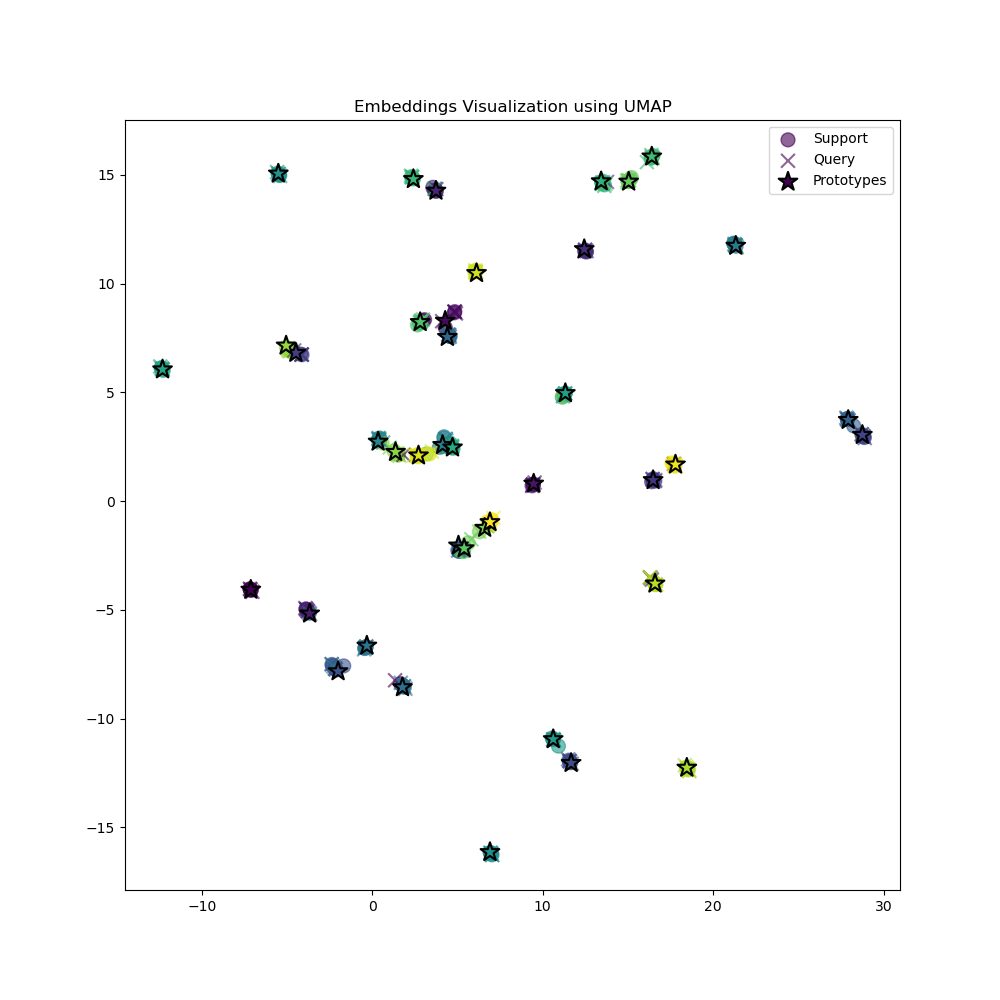
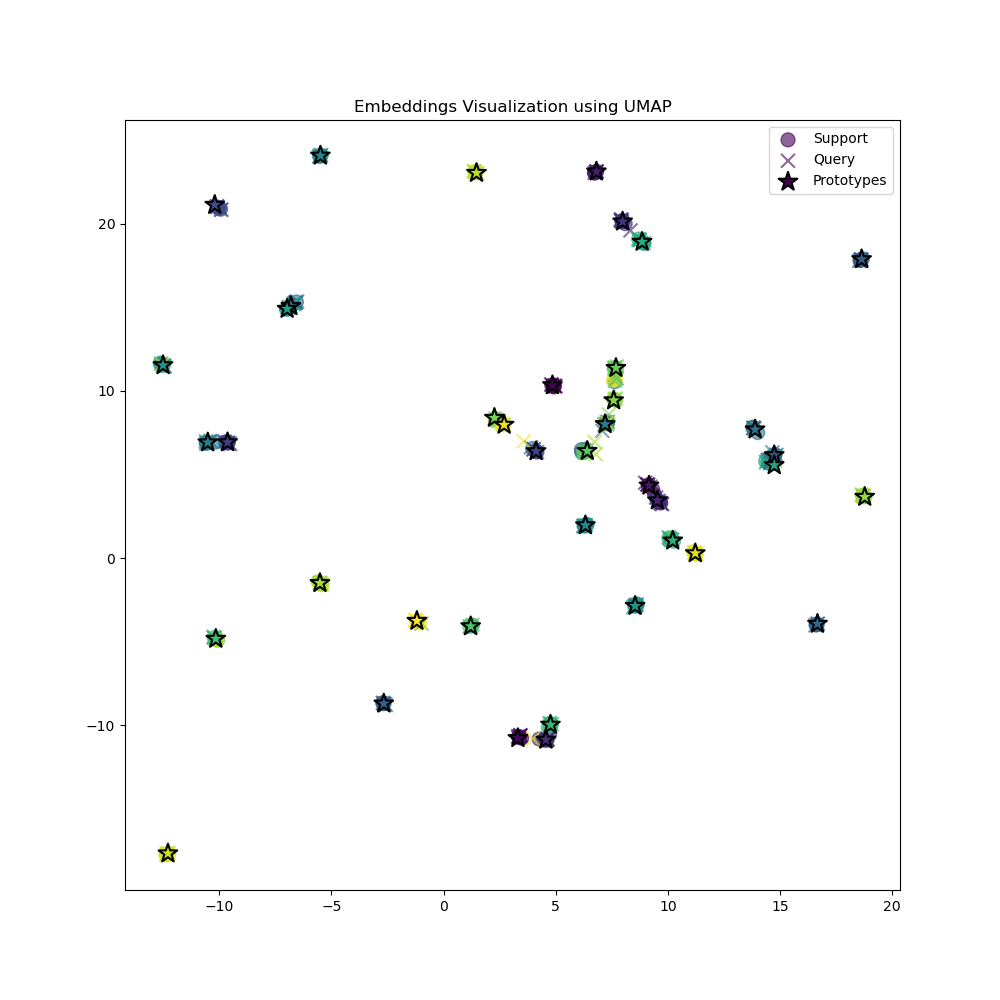
<feat> test results for transformer encoder 1 layer

diff --git a/scripts/visualize/visualize_mixup.py b/scripts/visualize/visualize_mixup.py
@@ -1,0 +1,108 @@
+import torch
+import torchvision
+import matplotlib.pyplot as plt
+import sys
+from pathlib import Path
+import numpy as np
+
+# Add project root to path to import from src
+project_root = Path(__file__).parent.parent.parent
+sys.path.append(str(project_root))
+
+from src.models.prototypical_network import mixup_data, cutmix_data
+
+
+def denormalize(tensor):
+    """Convert normalized image tensor back to displayable range"""
+    mean = torch.tensor([0.485, 0.456, 0.406]).view(3, 1, 1)
+    std = torch.tensor([0.229, 0.224, 0.225]).view(3, 1, 1)
+    return tensor * std + mean
+
+
+def visualize_augmentations(images, labels, alpha=0.5):
+    """Visualize original images and their MixUp/CutMix versions"""
+    # Ensure we're working with tensors
+    images = images.clone()
+    labels = labels.clone()
+
+    # Apply augmentations
+    mixed_images, labels_a, labels_b, mixup_lambda = mixup_data(
+        images, labels, alpha=alpha
+    )
+    cutmix_images, cm_labels_a, cm_labels_b, cutmix_lambda = cutmix_data(
+        images, labels, alpha=alpha
+    )
+
+    # Create figure
+    fig, axes = plt.subplots(2, 3, figsize=(15, 10))
+
+    # Helper function to display image
+    def show_image(ax, img, title):
+        img = denormalize(img)
+        img = img.permute(1, 2, 0).cpu().numpy()
+        img = np.clip(img, 0, 1)
+        ax.imshow(img)
+        ax.axis("off")
+        ax.set_title(title)
+
+    # Show original images
+    show_image(axes[0, 0], images[0], f"Original 1\nLabel: {labels[0].item()}")
+    show_image(axes[1, 0], images[1], f"Original 2\nLabel: {labels[1].item()}")
+
+    # Show MixUp results
+    show_image(
+        axes[0, 1],
+        mixed_images[0],
+        f"MixUp\nλ={mixup_lambda:.2f}\nLabels: {labels_a[0].item()}, {labels_b[0].item()}",
+    )
+    show_image(
+        axes[1, 1],
+        mixed_images[1],
+        f"MixUp\nλ={mixup_lambda:.2f}\nLabels: {labels_a[1].item()}, {labels_b[1].item()}",
+    )
+
+    # Show CutMix results
+    show_image(
+        axes[0, 2],
+        cutmix_images[0],
+        f"CutMix\nλ={cutmix_lambda:.2f}\nLabels: {cm_labels_a[0].item()}, {cm_labels_b[0].item()}",
+    )
+    show_image(
+        axes[1, 2],
+        cutmix_images[1],
+        f"CutMix\nλ={cutmix_lambda:.2f}\nLabels: {cm_labels_a[1].item()}, {cm_labels_b[1].item()}",
+    )
+
+    plt.tight_layout()
+    return fig
+
+
+if __name__ == "__main__":
+    # Load some sample images from CIFAR-10
+    transform = torchvision.transforms.Compose(
+        [
+            torchvision.transforms.Resize((224, 224)),
+            torchvision.transforms.ToTensor(),
+            torchvision.transforms.Normalize(
+                mean=[0.485, 0.456, 0.406], std=[0.229, 0.224, 0.225]
+            ),
+        ]
+    )
+
+    dataset = torchvision.datasets.Flowers102(
+        root="./data", split="train", download=True, transform=transform
+    )
+    # Select a few images
+    batch_size = 4
+    indices = torch.randint(0, len(dataset), (batch_size,))
+    images = torch.stack([dataset[i][0] for i in indices])
+    labels = torch.tensor([dataset[i][1] for i in indices])
+
+    # Create visualizations with different alpha values
+    alphas = [0.2, 0.5, 0.8]
+    for alpha in alphas:
+        fig = visualize_augmentations(images, labels, alpha=alpha)
+        plt.savefig(f"mixup_cutmix_alpha_{alpha}.png")
+        plt.close()
+
+    print("Visualizations saved as 'mixup_cutmix_alpha_*.png'")

diff --git a/src/evaluation/evaluate_prototypical.py b/src/evaluation/evaluate_prototypical.py
@@ -319,5 +319,5 @@ def evaluate_prototypical(model_path, n_episodes=100):
 
 
 if __name__ == "__main__":
-    model_path = "/home/zrgong/data/BloomLens/checkpoints/stage_3/best_model.pt"
+    model_path = "/home/zrgong/data/BloomLens/checkpoints/run_20241110_093027/stage_3/best_model.pt"
     evaluate_prototypical(model_path, n_episodes=100)

diff --git a/src/training/train_prototypical.py b/src/training/train_prototypical.py
@@ -513,7 +513,7 @@ def progressive_training(resume_stage=None):
         "epochs": 100,
         "train_episodes": 100,
         "val_episodes": 50,
-        "patience": 10,
+        "patience": 20,
         "checkpoint_freq": 5,
         "lr": 2e-4,
         "weight_decay": 0.01,

diff --git a/results/prototypical_results.md b/results/prototypical_results.md
@@ -8,3 +8,14 @@ Test Accuracy for 20-way 1-shot: 0.8381 ± 0.0578
 Test Accuracy for 20-way 5-shot: 0.9019 ± 0.0442
 Test Accuracy for 40-way 1-shot: 0.7922 ± 0.0423
 Test Accuracy for 40-way 5-shot: 0.8521 ± 0.0337
+
+
+## transformer, 1 layer
+Test Accuracy for 5-way 1-shot: 0.9364 ± 0.0686
+Test Accuracy for 5-way 5-shot: 0.9588 ± 0.0520
+Test Accuracy for 10-way 1-shot: 0.8936 ± 0.0770
+Test Accuracy for 10-way 5-shot: 0.9350 ± 0.0473
+Test Accuracy for 20-way 1-shot: 0.8551 ± 0.0577
+Test Accuracy for 20-way 5-shot: 0.8966 ± 0.0400
+Test Accuracy for 40-way 1-shot: 0.7829 ± 0.0484
+Test Accuracy for 40-way 5-shot: 0.8573 ± 0.0353
